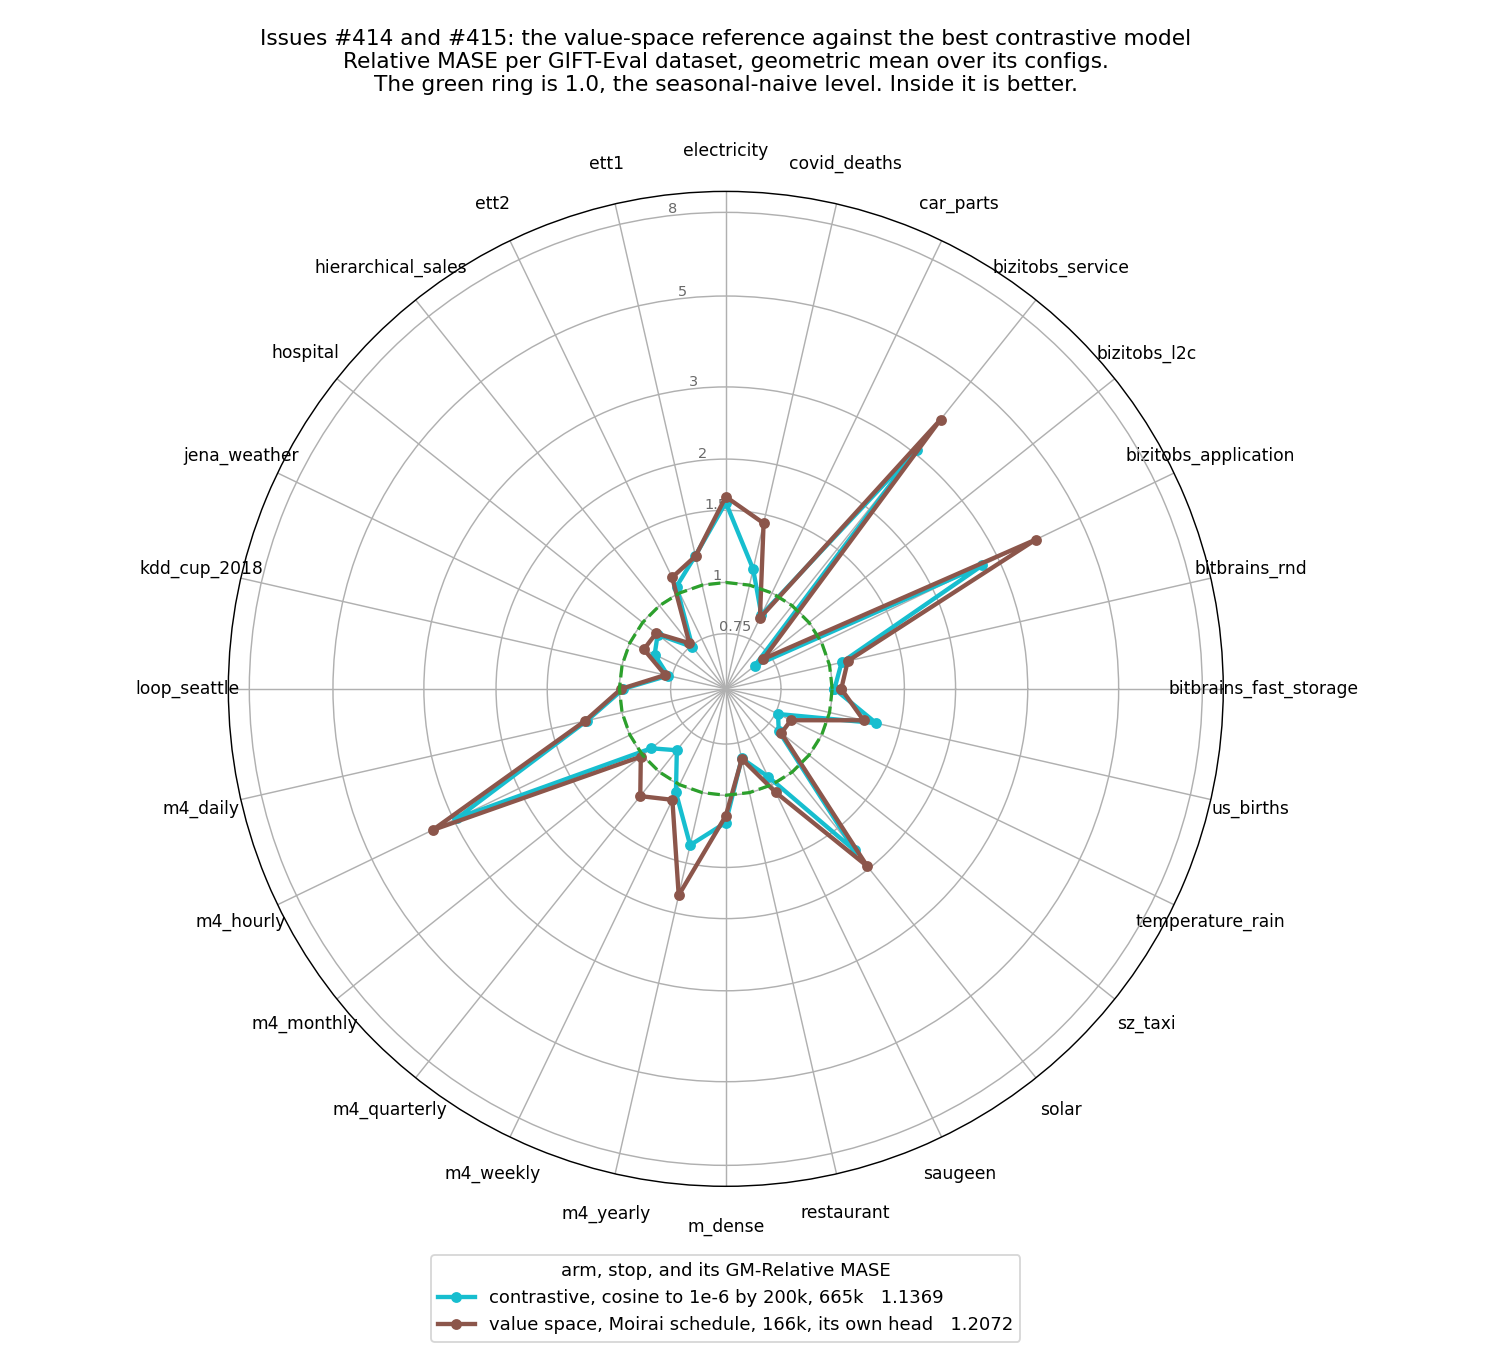
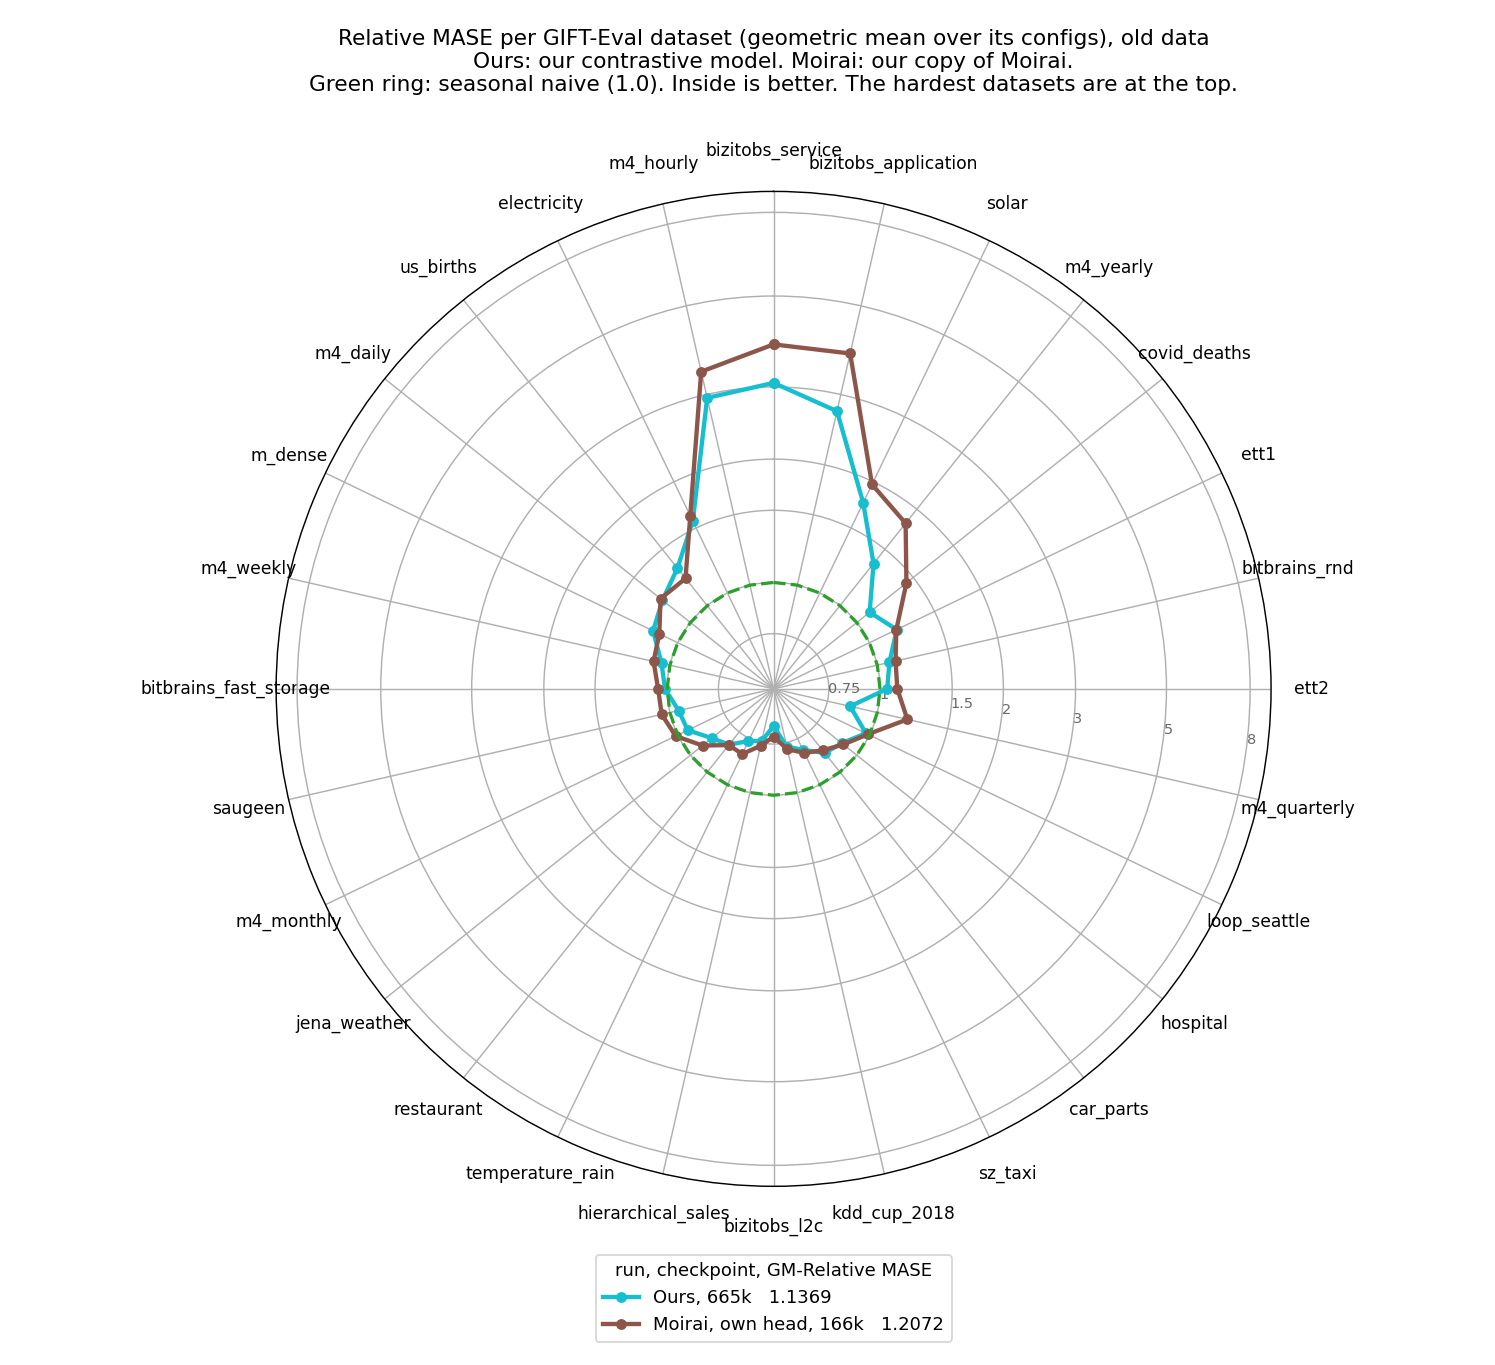
exp(#421): legends name Ours and Moirai; radars put the hard datasets together
Every legend entry starts with Ours (the contrastive model) or Moirai
(our copy of Moirai), and the long entries are shorter. The radars order
the datasets by difficulty: the hardest at the top, the easiest at the
bottom.

diff --git a/reports/2026-09-06_moirai_small_size/scripts/plot_gm_rates.py b/reports/2026-09-06_moirai_small_size/scripts/plot_gm_rates.py
@@ -16,25 +16,28 @@ OUT = STUDY / "plots" / "gm_mase_rates.png"
 P = "k3_r100_09_lr56_fix09_dec10k"
 # arm, label, colour, line width, marker, line style
 SERIES = [
-    (P,               "5.6e-4",                        "#b0b0b0", 1.8, "o", "--"),
-    (P + "_lr10x",    "5.6e-5, seed a",                "#1f77b4", 3.4, "o", "-"),
-    (P + "_lr10xb",   "5.6e-5, seed b",                "#7fb8e0", 3.4, "s", "-"),
-    (P + "_lr30x",    "1.8e-5",                        "#d62728", 4.0, "o", "-"),
-    (P + "_lr100x",   "5.6e-6",                        "#ff9f40", 4.0, "^", "-"),
-    (P + "_cos665k",  "cosine 6e-5 to 1e-6 over 665k", "#9467bd", 4.0, "D", "-"),
-    (P + "_cos200k",  "cosine 5.6e-5 to 1e-6 by 200k, then 1e-6", "#17becf", 4.0, "v", "-"),
-    ("cf415_moirai",  "value space, Moirai schedule (#415)", "#8c564b", 3.2, "X", "-"),
-    ("cf415_moirai_native", "the same, scored with its own head (A2V)", "#8c564b", 2.4, "o", ":"),
-    ("b2cos",         "1.1M: #373 cell B2 with the same cosine as cyan", "#e377c2", 3.0, "P", "-."),
-    ("cf419_cos200k", "new data: cosine 5.6e-5 to 1e-6 by 200k", "#1a1a1a", 4.0, "*", "-"),
-    ("cf419_moirai_native", "new data: value space, Moirai schedule, its own head", "#9a9a00", 3.0, "o", "--"),
-    ("cf421z_moirai_native", "new data: #421 patch heads and mean/std scaling, its own head", "#c51b7d", 3.4, "D", "-"),
-    ("cf421f_moirai_native", "new data: #421 in fp32, its own head", "#1b9e77", 3.8, "X", "-"),
+    # Ours: our contrastive model.
+    (P,               "Ours, lr 5.6e-4",                         "#b0b0b0", 1.8, "o", "--"),
+    (P + "_lr10x",    "Ours, lr 5.6e-5, seed a",                 "#1f77b4", 3.4, "o", "-"),
+    (P + "_lr10xb",   "Ours, lr 5.6e-5, seed b",                 "#7fb8e0", 3.4, "s", "-"),
+    (P + "_lr30x",    "Ours, lr 1.8e-5",                         "#d62728", 4.0, "o", "-"),
+    (P + "_lr100x",   "Ours, lr 5.6e-6",                         "#ff9f40", 4.0, "^", "-"),
+    (P + "_cos665k",  "Ours, lr cosine 6e-5→1e-6 over 665k",     "#9467bd", 4.0, "D", "-"),
+    (P + "_cos200k",  "Ours, lr cosine 5.6e-5→1e-6 by 200k",     "#17becf", 4.0, "v", "-"),
+    ("b2cos",         "Ours 1.1M, lr cosine 5.6e-5→1e-6 by 200k", "#e377c2", 3.0, "P", "-."),
+    ("cf419_cos200k", "Ours, lr cosine by 200k, new data",       "#1a1a1a", 4.0, "*", "-"),
+    # Moirai: our copy of Moirai, trained on the values with its schedule.
+    ("cf415_moirai",  "Moirai, separate head (B4)",              "#8c564b", 3.2, "X", "-"),
+    ("cf415_moirai_native", "Moirai, own head",                  "#8c564b", 2.4, "o", ":"),
+    ("cf419_moirai_native", "Moirai, own head, new data",        "#9a9a00", 3.0, "o", "--"),
+    ("cf421z_moirai_native", "Moirai + patch heads + mean/std, fp16, new data", "#c51b7d", 3.4, "D", "-"),
+    ("cf421f_moirai_native", "Moirai + patch heads + mean/std, new data", "#1b9e77", 3.8, "X", "-"),
+    ("cf421fb_moirai_native", "Moirai + patch heads + mean/std + GRU bound, new data", "#d4a017", 3.8, "h", "-"),
 ]
-# The value-space runs train at batch 256: one of their steps holds the data
-# of four batch-64 steps.
+# Moirai trains at batch 256: one of its steps holds the data of four
+# batch-64 steps.
 XSCALE = {"cf415_moirai": 4, "cf415_moirai_native": 4, "cf419_moirai_native": 4,
-          "cf421z_moirai_native": 4, "cf421f_moirai_native": 4}
+          "cf421z_moirai_native": 4, "cf421f_moirai_native": 4, "cf421fb_moirai_native": 4}
 # Where the last score of a line prints, so two lines that end together part.
 END_LABEL_OFFSET = {P + "_lr100x": (9, 4), P + "_cos200k": (9, -12)}
 BEST, BAND, PROJECT_BEST = 1.1369, 0.008, 1.0651
@@ -73,12 +76,11 @@ def draw_series(ax, arm, label, colour, width, marker, style, points):
 def draw_references(ax):
     ax.axhline(BEST, color="#2ca02c", ls=":", lw=1.6, zorder=1)
     ax.axhspan(BEST - BAND, BEST + BAND, color="#2ca02c", alpha=0.10, zorder=0)
-    ax.text(42000, BEST - 0.016, f"{BEST}, the best score: cosine to 1e-6 "
-            "by 200k, at 665k.  Shaded: the seed band, 0.008",
-            fontsize=9.5, color="#2ca02c")
+    ax.text(42000, BEST - 0.016, f"{BEST}: best of ours, old data, 665k.  "
+            "Shaded: the seed band, 0.008", fontsize=9.5, color="#2ca02c")
     ax.axhline(PROJECT_BEST, color="#e8173c", ls="--", lw=1.4, zorder=1)
-    ax.text(42000, PROJECT_BEST + 0.005, f"{PROJECT_BEST}, the project best "
-            "(1.1M parameters, 200k steps)", fontsize=9.5, color="#e8173c")
+    ax.text(42000, PROJECT_BEST + 0.005, f"{PROJECT_BEST}: project best "
+            "(ours, 1.1M parameters, 200k steps)", fontsize=9.5, color="#e8173c")
     ax.axvline(665000, color="#555555", ls=":", lw=1.2, zorder=1)
     ax.text(675000, YMAX - 0.012, "one pass\nover the data", fontsize=9,
             color="#555555", va="top")
@@ -95,14 +97,14 @@ def main():
     ticks = [40000, 100000, 200000, 400000, 665000, 1000000]
     ax.set_xticks(ticks)
     ax.set_xticklabels(["40k", "100k", "200k", "400k", "665k", "1,000k"])
-    ax.set_xlabel("data seen, in batch-64 steps (log scale). The value-space "
-                  "runs train at batch 256, so each of their steps counts 4.")
+    ax.set_xlabel("Data seen, in batch-64 steps (log scale). Moirai trains at "
+                  "batch 256, so one of its steps counts 4.")
     ax.set_ylabel("GM-Relative MASE, 97-config GIFT-Eval (lower is better)")
-    ax.set_title("GM-Relative MASE against data seen, at 11.4M parameters unless marked\n"
-                 "The coloured lines change the backbone rate alone. The brown lines "
-                 "train the same body in value space.\n"
-                 "Old data: the GiftEvalPretrain series of 4,096 points or more. "
-                 "New data (#419): all of GiftEvalPretrain.")
+    ax.set_title("GM-Relative MASE against data seen. 11.4M parameters unless marked.\n"
+                 "Ours: our contrastive model. Moirai: our copy of Moirai, trained "
+                 "on the values with its schedule.\n"
+                 "Old data: GiftEvalPretrain series of 4,096 points or more. "
+                 "New data: all of GiftEvalPretrain.")
     ax.grid(alpha=0.3)
     ax.set_ylim(YMIN, YMAX)
     ax.legend(fontsize=10, loc="upper center", bbox_to_anchor=(0.5, -0.115),

diff --git a/reports/2026-09-06_moirai_small_size/scripts/plot_radar_419.py b/reports/2026-09-06_moirai_small_size/scripts/plot_radar_419.py
@@ -9,17 +9,17 @@ from radar_lib import RADAR, STUDY, draw
 
 # Run name in results/, CSV prefix in the radar folder, legend label, colour.
 NEW_DATA = [
-    ("cf419_cos200k", "cos419_", "contrastive, cosine to 1e-6 by 200k", "#1a1a1a"),
-    ("cf419_moirai_native", "moirai419_native", "value space, Moirai schedule, its own head", "#9a9a00"),
-    ("cf421f_moirai_native", "moirai421f_native",
-     "#421 in fp32: patch heads and mean/std scaling, its own head", "#1b9e77"),
+    ("cf419_cos200k", "cos419_", "Ours", "#1a1a1a"),
+    ("cf419_moirai_native", "moirai419_native", "Moirai", "#9a9a00"),
+    ("cf421f_moirai_native", "moirai421f_native", "Moirai + patch heads + mean/std", "#1b9e77"),
+    ("cf421fb_moirai_native", "moirai421fb_native",
+     "Moirai + patch heads + mean/std + GRU bound", "#d4a017"),
 ]
-OLD_BEST = ("cyan665", "contrastive, cosine to 1e-6 by 200k, 665k, old data   1.1369", "#17becf")
-TITLE = ("Issues #419 and #421: each run on the new data at its best checkpoint,\n"
-         "against the best run on the old data\n"
-         "New data: all of GiftEvalPretrain. Old data: only its series of 4,096 points or more.\n"
-         "Relative MASE per GIFT-Eval dataset, geometric mean over its configs.\n"
-         "The green ring is 1.0, the seasonal-naive level. Inside it is better.")
+OLD_BEST = ("cyan665", "Ours, old data, 665k   1.1369", "#17becf")
+TITLE = ("Relative MASE per GIFT-Eval dataset (geometric mean over its configs), each run at its best checkpoint\n"
+         "Ours: our contrastive model. Moirai: our copy of Moirai.\n"
+         "New data: all of GiftEvalPretrain. Old data: its series of 4,096 points or more.\n"
+         "Green ring: seasonal naive (1.0). Inside is better. The hardest datasets are at the top.")
 
 
 def scored_stops(arm, csv_prefix):
@@ -39,7 +39,7 @@ def new_data_arms():
         stops = scored_stops(arm, prefix)
         if stops:
             k = min(stops, key=stops.get)
-            arms.append((f"{prefix}{k}k", f"{label}, {k}k, new data   {stops[k]:.4f}", colour))
+            arms.append((f"{prefix}{k}k", f"{label}, new data, {k}k   {stops[k]:.4f}", colour))
     return arms
 
 

diff --git a/reports/2026-09-06_moirai_small_size/scripts/radar_lib.py b/reports/2026-09-06_moirai_small_size/scripts/radar_lib.py
@@ -35,8 +35,22 @@ def per_dataset(mase, sn):
     return {d: math.exp(sum(x) / len(x)) for d, x in logs.items()}
 
 
+def bell_order(per_ds):
+    """Datasets by difficulty (the mean log value over the arms). The hardest
+    sits at the top, the next ones alternate right and left of it, and the
+    easiest meet at the bottom."""
+    names = set().union(*per_ds.values())
+    mean_log = {d: sum(math.log(v[d]) for v in per_ds.values() if d in v)
+                   / sum(d in v for v in per_ds.values()) for d in names}
+    ranked = sorted(names, key=mean_log.get, reverse=True)
+    return ranked[:1] + ranked[1::2] + ranked[2::2][::-1]
+
+
 def style_axes(ax, labels, ang):
-    """Dataset names round the rim, and a log radius from 0.55 to 9."""
+    """Dataset names round the rim, clockwise from the top, and a log radius
+    from 0.55 to 9."""
+    ax.set_theta_offset(math.pi / 2)
+    ax.set_theta_direction(-1)
     ax.set_xticks(ang[:-1])
     ax.set_xticklabels(labels, fontsize=9.5)
     ax.tick_params(axis="x", pad=12)
@@ -57,7 +71,7 @@ def load(arms):
 def draw(arms, title, out_png):
     """arms: [(CSV name in RADAR, legend label, colour)]. Returns {arm: {dataset: value}}."""
     per_ds = load(arms)
-    labels = sorted(set().union(*per_ds.values()))
+    labels = bell_order(per_ds)
     ang = [n / len(labels) * 2 * math.pi for n in range(len(labels))] + [0.0]
     fig, ax = plt.subplots(figsize=(11.5, 10.5), subplot_kw=dict(polar=True))
     for name, lab, col in arms:
@@ -67,7 +81,7 @@ def draw(arms, title, out_png):
     style_axes(ax, labels, ang)
     ax.set_title(title, fontsize=12, pad=28)
     ax.legend(loc="upper center", bbox_to_anchor=(0.5, -0.06), ncol=1, fontsize=10,
-              title="arm, stop, and its GM-Relative MASE")
+              title="run, checkpoint, GM-Relative MASE")
     fig.tight_layout()
     fig.savefig(out_png, dpi=130)
     return per_ds

diff --git a/reports/2026-09-06_moirai_small_size/scripts/plot_radar_value.py b/reports/2026-09-06_moirai_small_size/scripts/plot_radar_value.py
@@ -3,11 +3,11 @@ from radar_lib import STUDY, draw
 
 # The best contrastive run against the value-space reference with the Moirai
 # schedule. The flat-rate run trained without that schedule, so it stays out.
-ARMS = [("cyan665",    "contrastive, cosine to 1e-6 by 200k, 665k   1.1369", "#17becf"),
-        ("moirai_native166k", "value space, Moirai schedule, 166k, its own head   1.2072", "#8c564b")]
-TITLE = ("Issues #414 and #415: the value-space reference against the best contrastive model\n"
-         "Relative MASE per GIFT-Eval dataset, geometric mean over its configs.\n"
-         "The green ring is 1.0, the seasonal-naive level. Inside it is better.")
+ARMS = [("cyan665",    "Ours, 665k   1.1369", "#17becf"),
+        ("moirai_native166k", "Moirai, own head, 166k   1.2072", "#8c564b")]
+TITLE = ("Relative MASE per GIFT-Eval dataset (geometric mean over its configs), old data\n"
+         "Ours: our contrastive model. Moirai: our copy of Moirai.\n"
+         "Green ring: seasonal naive (1.0). Inside is better. The hardest datasets are at the top.")
 
 draw(ARMS, TITLE, STUDY / "plots/gm_mase_radar_value.png")
 print("radar written")
